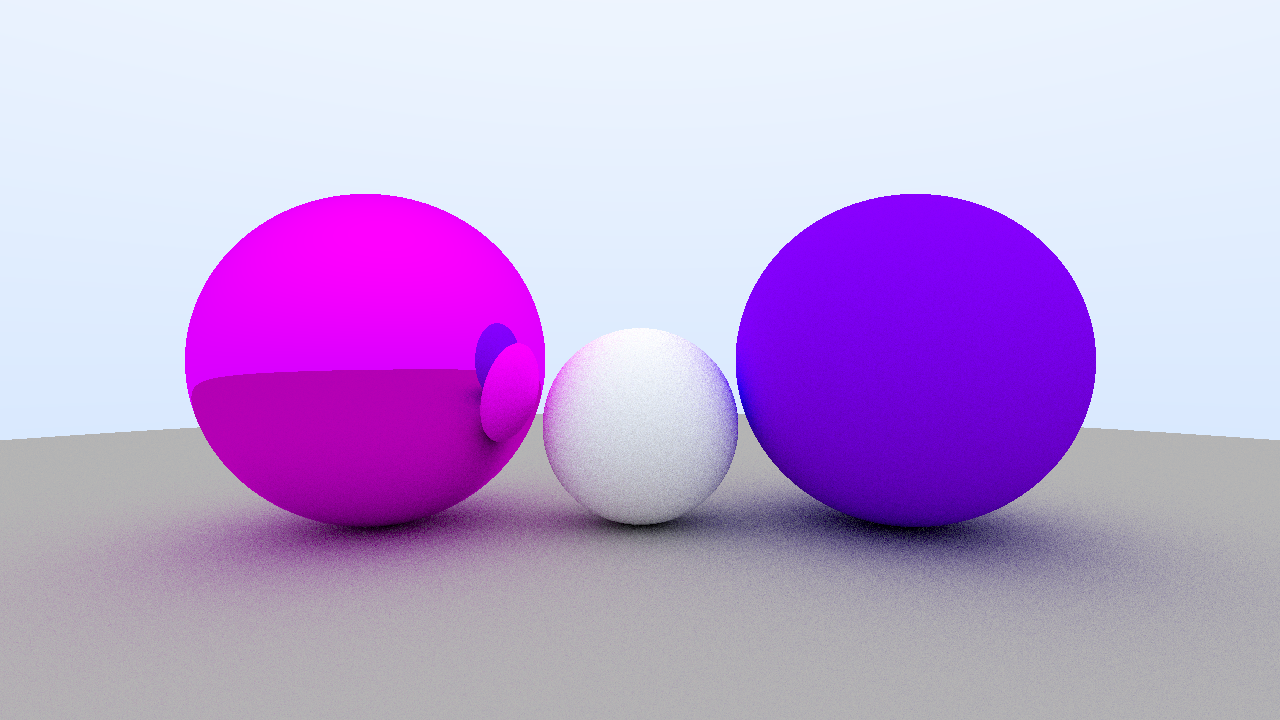
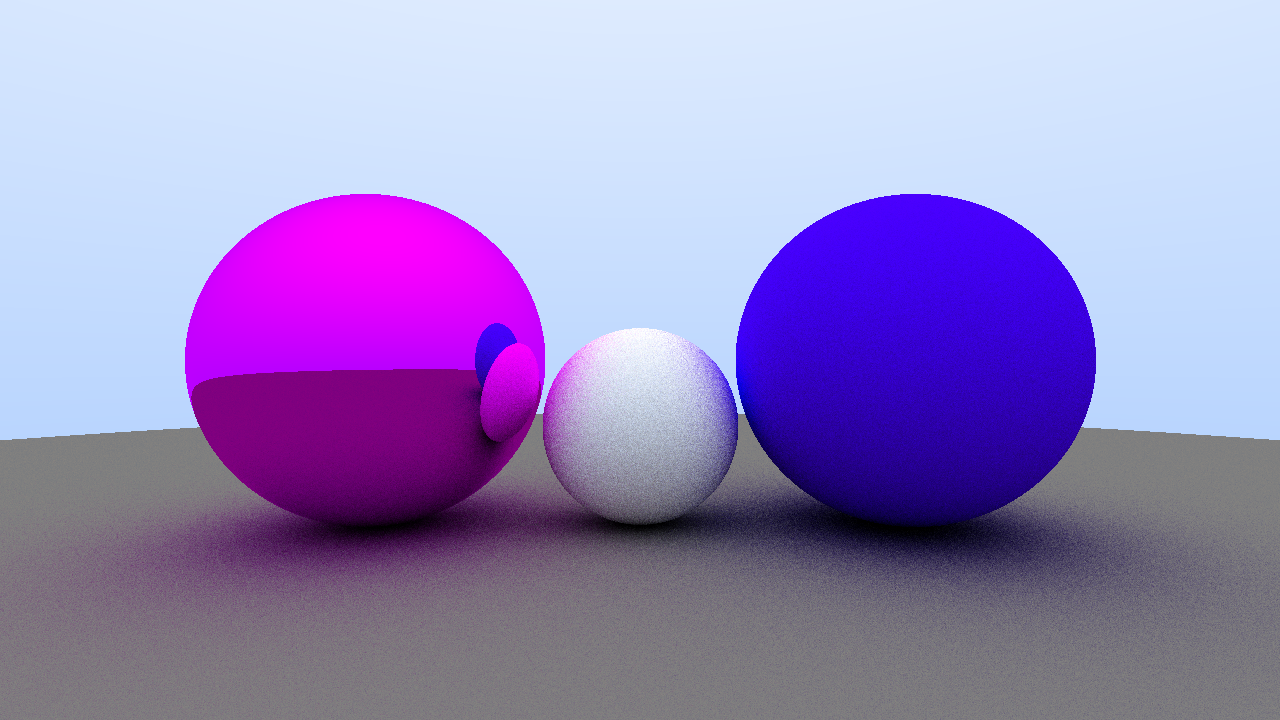
small changes

diff --git a/src/utils/app.rs b/src/utils/app.rs
@@ -29,6 +29,20 @@ pub fn create(name: &'static str, version: &'static str) -> Application {
     let scene = Scene {
         name: "simple",
         spheres: vec![
+            // Sphere {
+            //     position: Vector3::new(0.0, 0.0, 0.0),
+            //     radius: 0.5,
+            //     mat: Some(Arc::new(DiffuseMaterial {
+            //         albedo: Vector3::new(0.5, 0.5, 0.5),
+            //     })),
+            // },
+            // Sphere {
+            //     position: Vector3::new(0.0, 100.5, 0.0),
+            //     radius: 100.0,
+            //     mat: Some(Arc::new(DiffuseMaterial {
+            //         albedo: Vector3::new(0.5, 0.5, 0.5),
+            //     })),
+            // },
             Sphere {
                 position: Vector3::new(0.0, 0.2, 0.0),
                 radius: 0.3,

diff --git a/src/materials/diffuse.rs b/src/materials/diffuse.rs
@@ -1,6 +1,10 @@
 use nalgebra::Vector3;
 
-use crate::{shapes::ray::Ray, utils::math::unit_rand_vec};
+#[allow(unused_imports)]
+use crate::{
+    shapes::ray::Ray,
+    utils::math::{rand_in_hemisphere, unit_rand_vec},
+};
 
 use super::material::{Material, MaterialPayload};
 
@@ -16,7 +20,8 @@ impl Material for DiffuseMaterial {
         intersection_point: &Vector3<f64>,
         normal: &Vector3<f64>,
     ) -> Option<MaterialPayload> {
-        let scatter_dir = normal + unit_rand_vec();
+        // let scatter_dir = normal + unit_rand_vec();
+        let scatter_dir = rand_in_hemisphere(normal);
 
         Some(MaterialPayload {
             scattered: Ray {

diff --git a/src/utils/renderer.rs b/src/utils/renderer.rs
@@ -41,7 +41,7 @@ impl Renderer {
                 let mut g = 0.0;
                 let mut b = 0.0;
                 let samples = 30.0;
-                let gamma = 2.0;
+                let gamma = 1.0;
 
                 for _ in 0..(samples as u32) {
                     let pixel = self.per_pixel(i, j, scene, camera);
